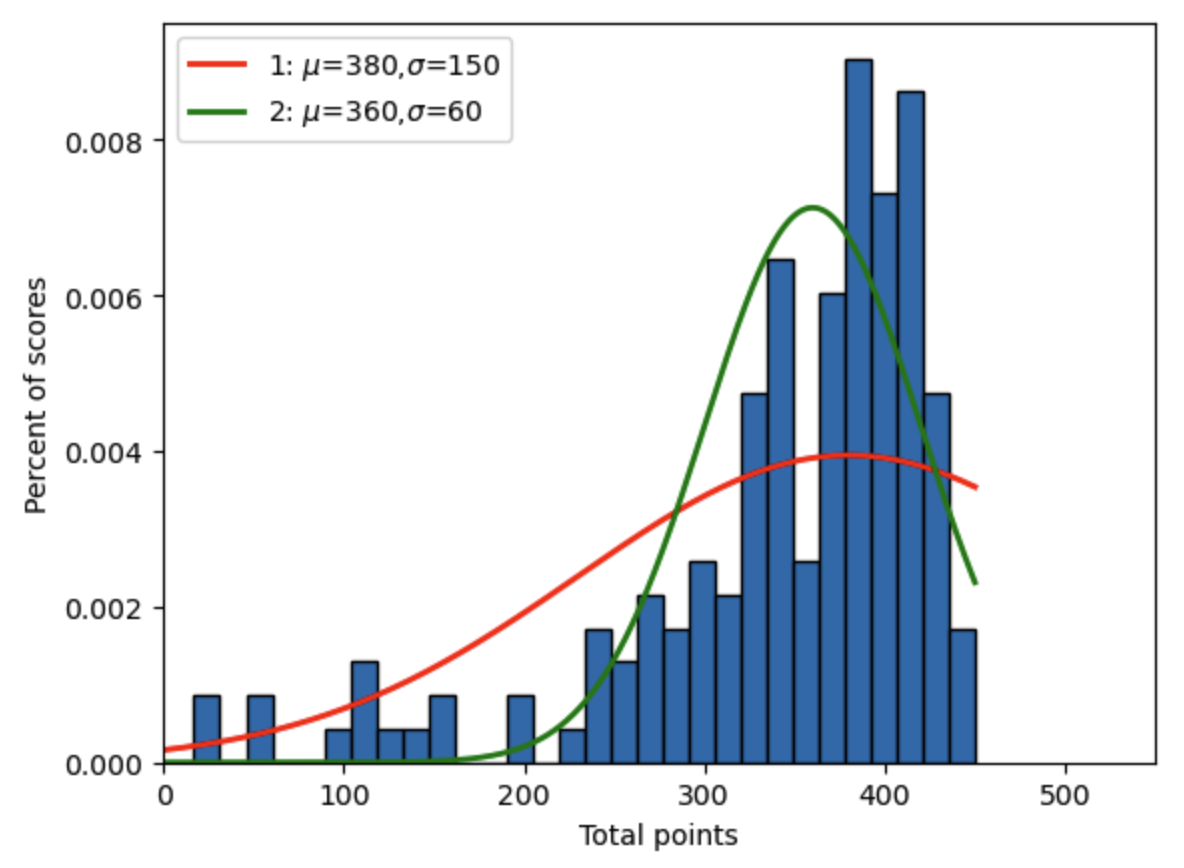
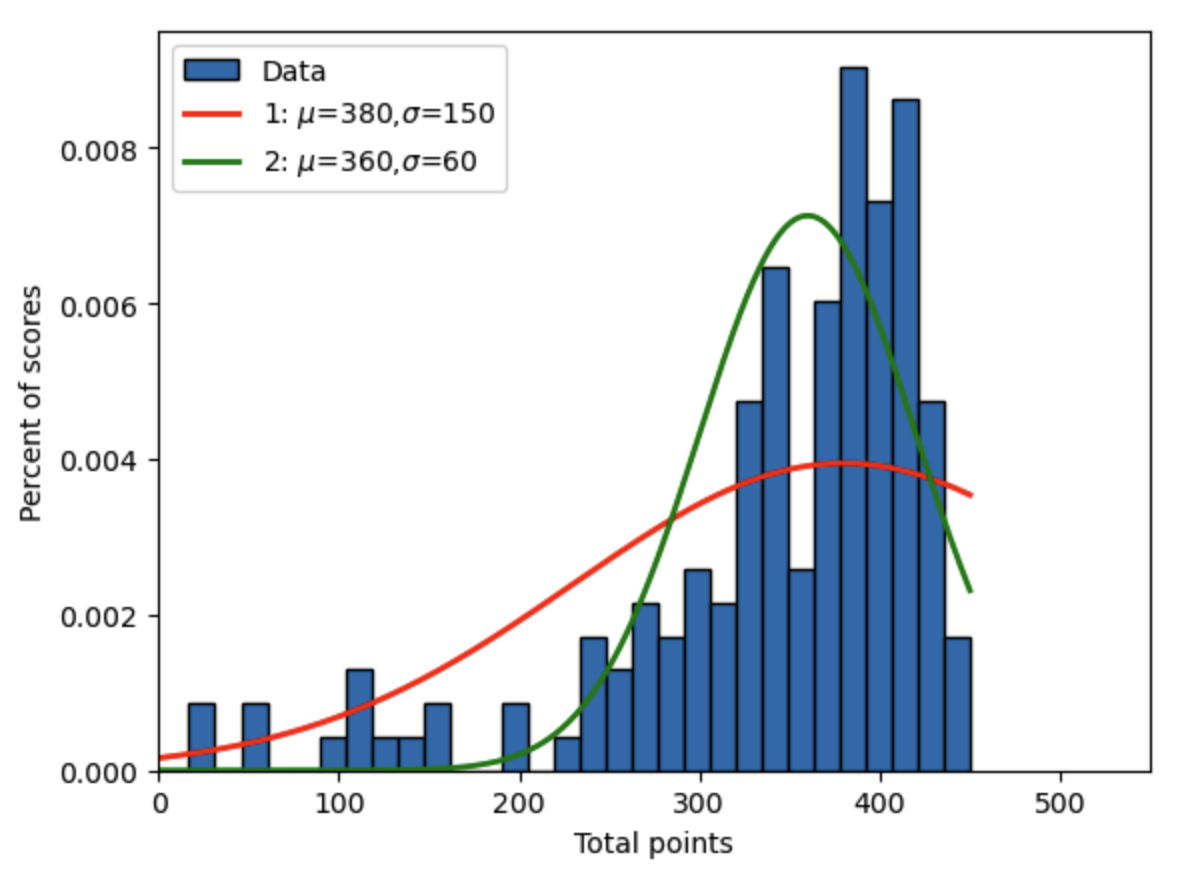
Updated MLE.md

Changed region(s): [[0.0, 0.0, 1.0, 0.9954]]

diff --git a/code/gmm/distributions.py b/code/gmm/distributions.py
@@ -1,0 +1,167 @@
+'''
+------------------------------------------------------------------------
+This module contains the functions for probability density functions of
+continuous PDF's.
+
+This Python module defines the following function(s):
+    GA_pdf()
+    GG_pdf()
+    GB2_pdf()
+------------------------------------------------------------------------
+'''
+# Import packages
+import numpy as np
+import scipy.special as spc
+
+
+'''
+------------------------------------------------------------------------
+    Functions
+------------------------------------------------------------------------
+'''
+
+
+def LN_pdf(xvals, mu, sigma):
+    '''
+    --------------------------------------------------------------------
+    This function gives the PDF of the lognormal distribution for xvals
+    given mu and sigma
+
+    (LN): f(x; mu, sigma) = (1 / (x * sigma * sqrt(2 * pi))) *
+            exp((-1 / 2) * (((log(x) - mu) / sigma) ** 2))
+            x in [0, infty), mu in (-infty, infty), sigma > 0
+    --------------------------------------------------------------------
+    INPUTS:
+    xvals = (N,) vector, data
+    mu    = scalar, mean of the ln(x)
+    sigma = scalar > 0, standard deviation of ln(x)
+
+    OTHER FUNCTIONS AND FILES CALLED BY THIS FUNCTION: None
+
+    OBJECTS CREATED WITHIN FUNCTION:
+    pdf_vals        = (N,) vector, probability of each observation given
+                      the parameter values
+
+    FILES CREATED BY THIS FUNCTION: None
+
+    RETURNS: pdf_vals
+    --------------------------------------------------------------------
+    '''
+    pdf_vals = np.float64(((1 / (np.sqrt(2 * np.pi) * sigma * xvals)) *
+                          np.exp((-1.0 / 2.0) *
+                          (((np.log(xvals) - mu) / sigma) ** 2))))
+
+    return pdf_vals
+
+
+def GA_pdf(xvals, alpha, beta):
+    '''
+    --------------------------------------------------------------------
+    Returns the PDF values from the two-parameter gamma (GA)
+    distribution. See McDonald and Xu (1995).
+
+    (GA): f(x; alpha, beta) = (1 / ((beta ** alpha) *
+        spc.gamma(alpha))) * (x ** (alpha - 1)) * (e ** (-x / beta))
+    x in [0, infty), alpha, beta > 0
+    --------------------------------------------------------------------
+    INPUTS:
+    xvals = (N,) vector, values in the support of gamma distribution
+    alpha = scalar > 0, gamma distribution parameter
+    beta  = scalar > 0, gamma distribution parameter
+
+    OTHER FUNCTIONS AND FILES CALLED BY THIS FUNCTION:
+        spc.gamma()
+
+    OBJECTS CREATED WITHIN FUNCTION:
+    pdf_vals = (N,) vector, pdf values from gamma distribution
+               corresponding to xvals given parameters alpha and beta
+
+    FILES CREATED BY THIS FUNCTION: None
+
+    RETURNS: pdf_vals
+    --------------------------------------------------------------------
+    '''
+    pdf_vals = \
+        np.float64((1 / ((beta ** alpha) * spc.gamma(alpha))) *
+                   (xvals ** (alpha - 1)) * np.exp(-xvals / beta))
+
+    return pdf_vals
+
+
+def GG_pdf(xvals, alpha, beta, mm):
+    '''
+    --------------------------------------------------------------------
+    Returns the PDF values from the three-parameter generalized gamma
+    (GG) distribution. See McDonald and Xu (1995).
+
+    (GG): f(x; alpha, beta, m) =
+        (m / ((beta ** alpha) * spc.gamma(alpha/m))) *
+        (x ** (alpha - 1)) * (e ** -((x / beta) ** m))
+    x in [0, infty), alpha, beta, m > 0
+    --------------------------------------------------------------------
+    INPUTS:
+    xvals = (N,) vector, values in the support of generalized gamma (GG)
+            distribution
+    alpha = scalar > 0, generalized gamma (GG) distribution parameter
+    beta  = scalar > 0, generalized gamma (GG) distribution parameter
+    mm    = scalar > 0, generalized gamma (GG) distribution parameter
+
+    OTHER FUNCTIONS AND FILES CALLED BY THIS FUNCTION:
+        spc.gamma()
+
+    OBJECTS CREATED WITHIN FUNCTION:
+    pdf_vals = (N,) vector, pdf values from generalized gamma
+               distribution corresponding to xvals given parameters
+               alpha, beta, and mm
+
+    FILES CREATED BY THIS FUNCTION: None
+
+    RETURNS: pdf_vals
+    --------------------------------------------------------------------
+    '''
+    pdf_vals = \
+        np.float64((mm / ((beta ** alpha) * spc.gamma(alpha / mm))) *
+                   (xvals ** (alpha - 1)) *
+                   np.exp(-((xvals / beta) ** mm)))
+
+    return pdf_vals
+
+
+def GB2_pdf(xvals, aa, bb, pp, qq):
+    '''
+    --------------------------------------------------------------------
+    Returns the PDF values from the four-parameter generalized beta 2
+    (GB2) distribution. See McDonald and Xu (1995).
+
+    (GB2): f(x; a, b, p, q) = (a * (x ** ((a*p) - 1))) /
+        ((b ** (a * p)) * spc.beta(p, q) *
+        ((1 + ((x / b) ** a)) ** (p + q)))
+    x in [0, infty), alpha, beta, m > 0
+    --------------------------------------------------------------------
+    INPUTS:
+    xvals = (N,) vector, values in the support of generalized beta 2
+            (GB2) distribution
+    aa    = scalar > 0, generalized beta 2 (GB2) distribution parameter
+    bb    = scalar > 0, generalized beta 2 (GB2) distribution parameter
+    pp    = scalar > 0, generalized beta 2 (GB2) distribution parameter
+    qq    = scalar > 0, generalized beta 2 (GB2) distribution parameter
+
+    OTHER FUNCTIONS AND FILES CALLED BY THIS FUNCTION:
+        spc.beta()
+
+    OBJECTS CREATED WITHIN FUNCTION:
+    pdf_vals = (N,) vector, pdf values from generalized beta 2 (GB2)
+               distribution corresponding to xvals given parameters aa,
+               bb, pp, and qq
+
+    FILES CREATED BY THIS FUNCTION: None
+
+    RETURNS: pdf_vals
+    --------------------------------------------------------------------
+    '''
+    pdf_vals = \
+        np.float64((aa * (xvals ** (aa * pp - 1))) / ((bb ** (aa * pp)) *
+                   spc.beta(pp, qq) *
+                   ((1 + ((xvals / bb) ** aa)) ** (pp + qq))))
+
+    return pdf_vals

diff --git a/code/mle/distributions.py b/code/mle/distributions.py
@@ -1,0 +1,167 @@
+'''
+------------------------------------------------------------------------
+This module contains the functions for probability density functions of
+continuous PDF's.
+
+This Python module defines the following function(s):
+    GA_pdf()
+    GG_pdf()
+    GB2_pdf()
+------------------------------------------------------------------------
+'''
+# Import packages
+import numpy as np
+import scipy.special as spc
+
+
+'''
+------------------------------------------------------------------------
+    Functions
+------------------------------------------------------------------------
+'''
+
+
+def LN_pdf(xvals, mu, sigma):
+    '''
+    --------------------------------------------------------------------
+    This function gives the PDF of the lognormal distribution for xvals
+    given mu and sigma
+
+    (LN): f(x; mu, sigma) = (1 / (x * sigma * sqrt(2 * pi))) *
+            exp((-1 / 2) * (((log(x) - mu) / sigma) ** 2))
+            x in [0, infty), mu in (-infty, infty), sigma > 0
+    --------------------------------------------------------------------
+    INPUTS:
+    xvals = (N,) vector, data
+    mu    = scalar, mean of the ln(x)
+    sigma = scalar > 0, standard deviation of ln(x)
+
+    OTHER FUNCTIONS AND FILES CALLED BY THIS FUNCTION: None
+
+    OBJECTS CREATED WITHIN FUNCTION:
+    pdf_vals        = (N,) vector, probability of each observation given
+                      the parameter values
+
+    FILES CREATED BY THIS FUNCTION: None
+
+    RETURNS: pdf_vals
+    --------------------------------------------------------------------
+    '''
+    pdf_vals = np.float64(((1 / (np.sqrt(2 * np.pi) * sigma * xvals)) *
+                          np.exp((-1.0 / 2.0) *
+                          (((np.log(xvals) - mu) / sigma) ** 2))))
+
+    return pdf_vals
+
+
+def GA_pdf(xvals, alpha, beta):
+    '''
+    --------------------------------------------------------------------
+    Returns the PDF values from the two-parameter gamma (GA)
+    distribution. See McDonald and Xu (1995).
+
+    (GA): f(x; alpha, beta) = (1 / ((beta ** alpha) *
+        spc.gamma(alpha))) * (x ** (alpha - 1)) * (e ** (-x / beta))
+    x in [0, infty), alpha, beta > 0
+    --------------------------------------------------------------------
+    INPUTS:
+    xvals = (N,) vector, values in the support of gamma distribution
+    alpha = scalar > 0, gamma distribution parameter
+    beta  = scalar > 0, gamma distribution parameter
+
+    OTHER FUNCTIONS AND FILES CALLED BY THIS FUNCTION:
+        spc.gamma()
+
+    OBJECTS CREATED WITHIN FUNCTION:
+    pdf_vals = (N,) vector, pdf values from gamma distribution
+               corresponding to xvals given parameters alpha and beta
+
+    FILES CREATED BY THIS FUNCTION: None
+
+    RETURNS: pdf_vals
+    --------------------------------------------------------------------
+    '''
+    pdf_vals = \
+        np.float64((1 / ((beta ** alpha) * spc.gamma(alpha))) *
+                   (xvals ** (alpha - 1)) * np.exp(-xvals / beta))
+
+    return pdf_vals
+
+
+def GG_pdf(xvals, alpha, beta, mm):
+    '''
+    --------------------------------------------------------------------
+    Returns the PDF values from the three-parameter generalized gamma
+    (GG) distribution. See McDonald and Xu (1995).
+
+    (GG): f(x; alpha, beta, m) =
+        (m / ((beta ** alpha) * spc.gamma(alpha/m))) *
+        (x ** (alpha - 1)) * (e ** -((x / beta) ** m))
+    x in [0, infty), alpha, beta, m > 0
+    --------------------------------------------------------------------
+    INPUTS:
+    xvals = (N,) vector, values in the support of generalized gamma (GG)
+            distribution
+    alpha = scalar > 0, generalized gamma (GG) distribution parameter
+    beta  = scalar > 0, generalized gamma (GG) distribution parameter
+    mm    = scalar > 0, generalized gamma (GG) distribution parameter
+
+    OTHER FUNCTIONS AND FILES CALLED BY THIS FUNCTION:
+        spc.gamma()
+
+    OBJECTS CREATED WITHIN FUNCTION:
+    pdf_vals = (N,) vector, pdf values from generalized gamma
+               distribution corresponding to xvals given parameters
+               alpha, beta, and mm
+
+    FILES CREATED BY THIS FUNCTION: None
+
+    RETURNS: pdf_vals
+    --------------------------------------------------------------------
+    '''
+    pdf_vals = \
+        np.float64((mm / ((beta ** alpha) * spc.gamma(alpha / mm))) *
+                   (xvals ** (alpha - 1)) *
+                   np.exp(-((xvals / beta) ** mm)))
+
+    return pdf_vals
+
+
+def GB2_pdf(xvals, aa, bb, pp, qq):
+    '''
+    --------------------------------------------------------------------
+    Returns the PDF values from the four-parameter generalized beta 2
+    (GB2) distribution. See McDonald and Xu (1995).
+
+    (GB2): f(x; a, b, p, q) = (a * (x ** ((a*p) - 1))) /
+        ((b ** (a * p)) * spc.beta(p, q) *
+        ((1 + ((x / b) ** a)) ** (p + q)))
+    x in [0, infty), alpha, beta, m > 0
+    --------------------------------------------------------------------
+    INPUTS:
+    xvals = (N,) vector, values in the support of generalized beta 2
+            (GB2) distribution
+    aa    = scalar > 0, generalized beta 2 (GB2) distribution parameter
+    bb    = scalar > 0, generalized beta 2 (GB2) distribution parameter
+    pp    = scalar > 0, generalized beta 2 (GB2) distribution parameter
+    qq    = scalar > 0, generalized beta 2 (GB2) distribution parameter
+
+    OTHER FUNCTIONS AND FILES CALLED BY THIS FUNCTION:
+        spc.beta()
+
+    OBJECTS CREATED WITHIN FUNCTION:
+    pdf_vals = (N,) vector, pdf values from generalized beta 2 (GB2)
+               distribution corresponding to xvals given parameters aa,
+               bb, pp, and qq
+
+    FILES CREATED BY THIS FUNCTION: None
+
+    RETURNS: pdf_vals
+    --------------------------------------------------------------------
+    '''
+    pdf_vals = \
+        np.float64((aa * (xvals ** (aa * pp - 1))) / ((bb ** (aa * pp)) *
+                   spc.beta(pp, qq) *
+                   ((1 + ((xvals / bb) ** aa)) ** (pp + qq))))
+
+    return pdf_vals

diff --git a/docs/book/struct_est/MLE.md b/docs/book/struct_est/MLE.md
@@ -142,7 +142,7 @@ plt.show()
 height: 500px
 name: FigMLE_EconScoreHist
 ---
-Intermediate macroeconomics midterm scores over two semesters
+Histogram of intermediate macroeconomics midterm scores over two semesters: $N=161$
 ```
 
 Now lets code up a parametric distribution that is flexible enough to fit lots of different distributions of test scores, has the properties we would expect from a distribution of test scores, and is characterized by a minimal number of parameters. In this case, we will use a truncated normal distribution.[^TruncNorm]
@@ -212,7 +212,7 @@ Let's plot the histogram of the intermediate macroeconomics test scores overlaye
 # Plot histogram
 num_bins = 30
 count, bins, ignored = plt.hist(data, num_bins, density=True,
-                                edgecolor='k')
+                                edgecolor='k', label='Data')
 plt.title('Intermediate macro scores: 2011-2012', fontsize=15)
 plt.xlabel(r'Total points')
 plt.ylabel(r'Percent of scores')
@@ -402,7 +402,7 @@ Note that we used initial guesses for $\mu$ and $\sigma$ of 385 and 120 and the 
 
 # Plot the histogram of the data
 count, bins, ignored = plt.hist(data, num_bins, density=True,
-                                edgecolor='k')
+                                edgecolor='k', label='Data')
 plt.title('Intermediate macro scores: 2011-2012', fontsize=15)
 plt.xlabel(r'Total points')
 plt.ylabel(r'Percent of scores')
@@ -480,7 +480,6 @@ ax.set_title('Log-likelihood function for values of mu and sigma')
 ax.set_xlabel(r'$\mu$')
 ax.set_ylabel(r'$\sigma$')
 ax.set_zlabel(r'Log-likelihood func.')
-plt.tight_layout()
 
 plt.show()
 ```
@@ -527,7 +526,6 @@ ax.set_title('Log-likelihood function for values of mu and sigma')
 ax.set_xlabel(r'$\mu$')
 ax.set_ylabel(r'$\sigma$')
 ax.set_zlabel(r'Log-likelihood func.')
-plt.tight_layout()
 
 plt.show()
 ```
@@ -843,14 +841,14 @@ The statistical family tree figure above shows the all the relationships between
 :label: ExercStructEst_MLE_claims
 :class: green
 ```
-For this problem, you will use 10,619 health claims amounts from a fictitious sample of households. These data are in a single column of the text file [`claims.txt`](https://github.com/OpenSourceEcon/CompMethods/blob/main/data/mle/claims.txt) in the online book repository data folder `data/mle/`. This file is a comma separated text file with no labels. Health claim amounts are reported in US dollars. For this exercise, you will need to use the generalized beta family of distributions shown in {numref}`Figure %s <FigMLE_GBtree>` of Section {ref}`SecMLE_GBfam`.
+For this problem, you will use 10,619 health claims amounts from a fictitious sample of households. These data are in a single column of the text file [`claims.txt`](https://github.com/OpenSourceEcon/CompMethods/blob/main/data/mle/claims.txt) in the online book repository data folder `data/mle/`. This file is a comma separated text file with no labels. Health claim amounts are reported in US dollars. For this exercise, you will need to use the generalized beta family of distributions shown in {numref}`Figure %s <FigMLE_GBtree>` of Section {ref}`SecMLE_GBfam`. You may want to use the [`distributions.py`](https://github.com/OpenSourceEcon/CompMethods/blob/main/code/mle/distributions.py) module in the [`./code/mle/`](https://github.com/OpenSourceEcon/CompMethods/blob/main/code/mle/) folder of the GitHub repository for this online book.
 
 1. Calculate and report the mean, median, maximum, minimum, and standard deviation of monthly health expenditures for these data. Plot two histograms of the data in which the $y$-axis gives the percent of observations in the particular bin of health expenditures and the $x$-axis gives the value of monthly health expenditures. Use percentage histograms in which the height of each bar is the percent of observations in that bin. In the first histogram, use 1,000 bins to plot the frequency of all the data. In the second histogram, use 100 bins to plot the frequency of only monthly health expenditures less-than-or-equal-to \$800 ($x_i\leq 800$). Adjust the frequencies of this second histogram to account for the observations that you have not displayed ($x_i>800$). That is, the heights of the histogram bars in the second histogram should not sum to 1 because you are only displaying a fraction of the data. Comparing the two histograms, why might you prefer the second one?
-2. Using MLE, fit the gamma $GA(x;\alpha,\beta)$ distribution to the individual observation data. Use $\beta_0=Var(x)/E(x)$ and $\alpha_0=E(x)/\beta_0$ as your initial guess. These initial guesses come from the property of the gamma (GA) distribution that $E(x)=\alpha\beta$ and $Var(x)=\alpha\beta^2$. Report your estimated values for $\hat{\alpha}$ and $\hat{\beta}$, as well as the value of the maximized log likelihood function $\ln\mathcal{L}(\hat{\theta})$. Plot the second histogram from part (1) overlayed with a line representing the implied histogram from your estimated gamma (GA) distribution.
-3. Using MLE, fit the generalized gamma $GG(x;\alpha,\beta,m)$ distribution to the individual observation data. Use your estimates for $\alpha$ and $\beta$ from part(2), as well as $m=1$, as your initial guess. Report your estimated values for $\hat{\alpha}$, $\hat{\beta}$, and $\hat{m}$, as well as the value of the maximized log likelihood function $\ln\mathcal{L}$. Plot the second histogram from part (1) overlayed with a line representing the implied histogram from your estimated generalized gamma (GG) distribution.
-4. Using MLE, fit the generalized beta 2 $GB2(x;a,b,p,q)$ distribution to the individual observation data. Use your estimates for $\alpha$, $\beta$, and $m$ from part (3), as well as $q=10,000$, as your initial guess. Report your estimated values for $\hat{a}$, $\hat{b}$, $\hat{p}$, and $\hat{q}$, as well as the value of the maximized log likelihood function $\ln\mathcal{L}$. Plot the second histogram from part(1) overlayed with a line representing the implied histogram from your estimated generalized beta 2 (GB2) distribution.
-5. Perform a likelihood ratio test for each of the estimated in parts (2) and (3), respectively, against the GB2 specification in part (4). This is feasible because each distribution is a nested version of the GB2. The degrees of freedom in the $\chi^2(p)$ is 4, consistent with the GB2. Report the $\chi^2(4)$ values from the likelihood ratio test for the estimated GA and the estimated GG distributions.
-6. Using the estimated GB2 distribution from part (4), how likely am I to have a monthly health care claim of more than \$1,000? How does this amount change if I use the estimated GA distribution from part (2)?
+2. Using MLE, fit the gamma $GA(x|\alpha,\beta)$ distribution to the individual observation data. Use $\beta_0=Var(x)/E(x)$ and $\alpha_0=E(x)/\beta_0$ as your initial guess. These initial guesses come from the property of the gamma (GA) distribution that $E(x)=\alpha\beta$ and $Var(x)=\alpha\beta^2$. Report your estimated values for $\hat{\alpha}$ and $\hat{\beta}$, as well as the value of the maximized log likelihood function $\ln\mathcal{L}(\hat{\theta})$. Plot the second histogram from part (1) overlayed with a line representing the implied histogram from your estimated gamma (GA) distribution.
+3. Using MLE, fit the generalized gamma $GG(x|\alpha,\beta,m)$ distribution to the individual observation data. Use your estimates for $\alpha$ and $\beta$ from part(2), as well as $m=1$, as your initial guess. Report your estimated values for $\hat{\alpha}$, $\hat{\beta}$, and $\hat{m}$, as well as the value of the maximized log likelihood function $\ln\mathcal{L}$. Plot the second histogram from part (1) overlayed with a line representing the implied histogram from your estimated generalized gamma (GG) distribution.
+4. Using MLE, fit the generalized beta 2 $GB2(x|a,b,p,q)$ distribution to the individual observation data. Use your estimates for $\alpha$, $\beta$, and $m$ from part (3), as well as $q=10,000$, as your initial guess. Report your estimated values for $\hat{a}$, $\hat{b}$, $\hat{p}$, and $\hat{q}$, as well as the value of the maximized log likelihood function $\ln\mathcal{L}$. Plot the second histogram from part(1) overlayed with a line representing the implied histogram from your estimated generalized beta 2 (GB2) distribution.
+5. Perform a likelihood ratio test for each of the estimated distributions in parts (2) and (3), respectively, against the GB2 specification in part (4). This is feasible because each distribution is a nested version of the GB2. The degrees of freedom in the $\chi^2(p)$ is 4, consistent with the GB2. Report the $\chi^2(4)$ values from the likelihood ratio test for the estimated GA and the estimated GG distributions.
+6. Using the estimated GB2 distribution from part (4), how likely am I to have a monthly health care claim of more than \$1,000 in a given month? How does this amount change if I use the estimated GA distribution from part (2)?
 ```{exercise-end}
 ```
 
